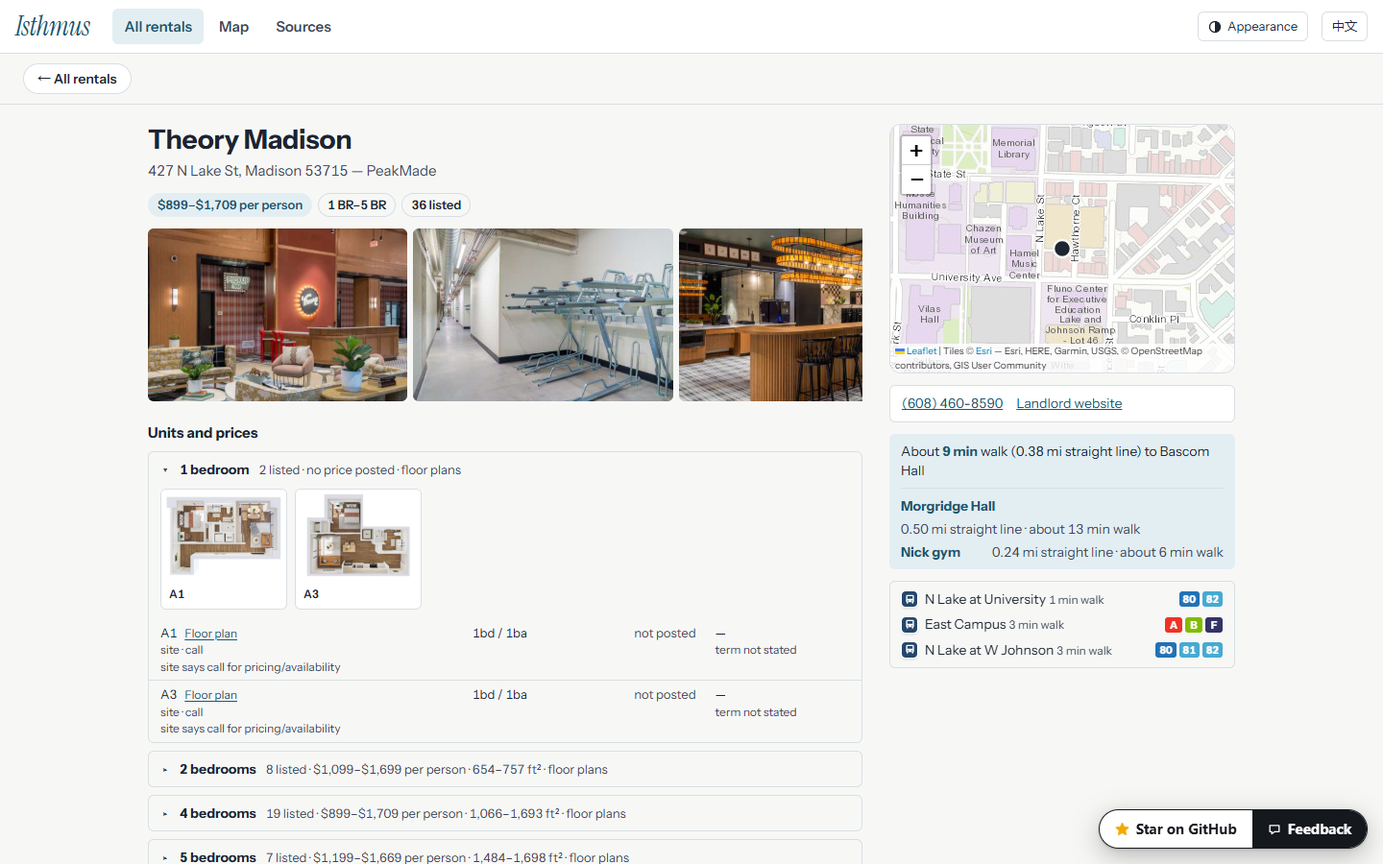
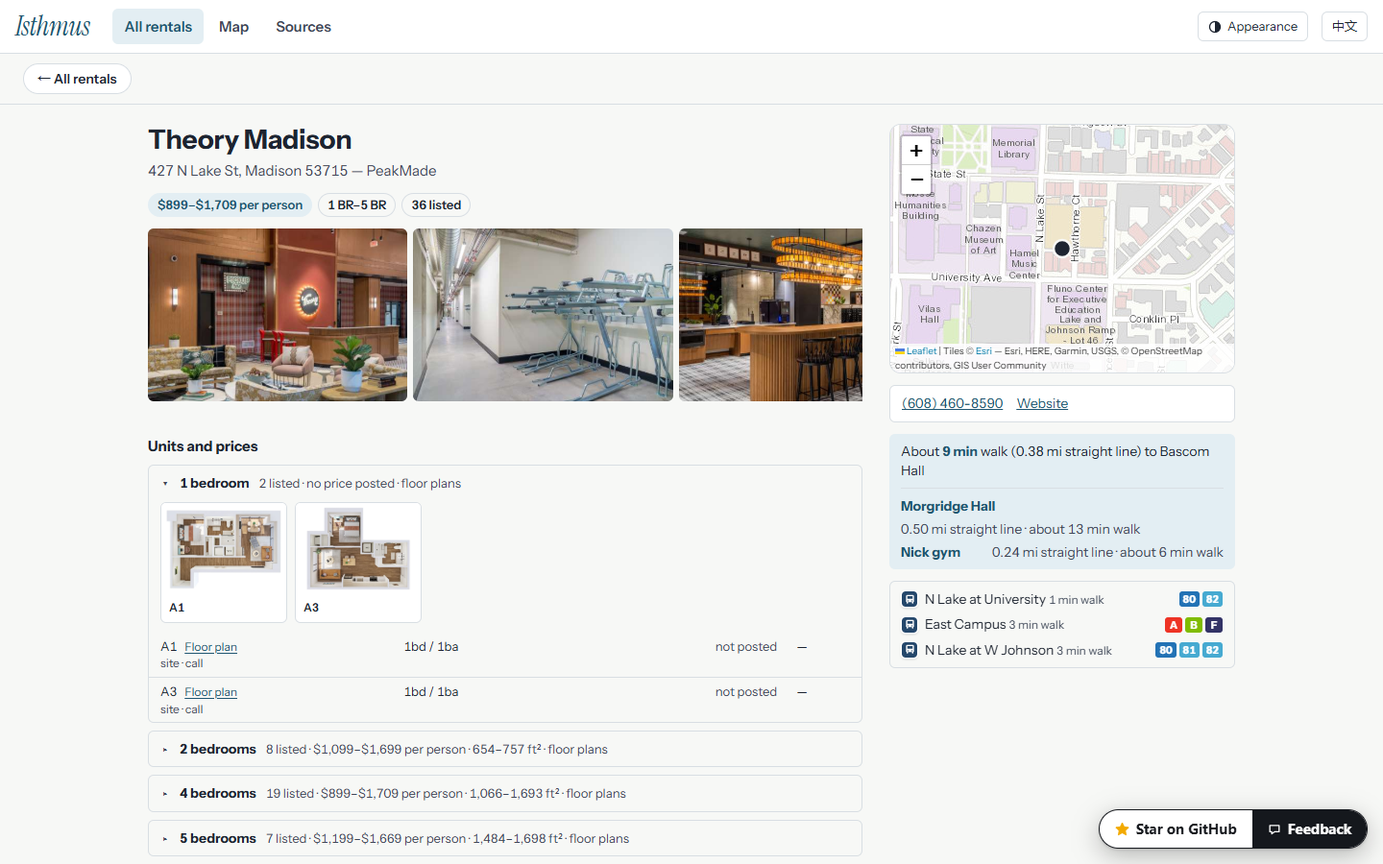
Update data 2026-10-08T01:33:05

diff --git a/app.js b/app.js
@@ -274,7 +274,6 @@
       chip: v => v <= todayISO() ? (lang === 'zh' ? '现在就能入住' : 'Move in now') : (lang === 'zh' ? `${dateLabel(v)} 起可入住` : `Move in from ${dateLabel(v)}`) },
     choice: { g: 'u', zh: '可选户型最多', en: 'Most units to choose from', val: r => r._n, dir: -1,
       chip: v => lang === 'zh' ? `${v} 个户型可选` : `${v} to choose from` },
-    complete: { g: 'u', zh: '缺失信息最少', en: 'Fewest missing details', val: r => r._gapsN },
   };
   const SORT_GROUPS = [['d', '距离', 'Distance'], ['p', '价格', 'Price'], ['u', '房源', 'Rentals']];
   function fillSort() {
@@ -400,7 +399,7 @@
     if (p._minBed != null) {
       const tip = (p._minBedDiv ? (zh ? '整套租金 ÷ 卧室数' : 'Whole-unit rent ÷ bedrooms') : (zh ? '每人价格' : 'Per-person price'))
         + (p._minBedUnv ? (zh ? '；未核实是否整套价' : '; not confirmed as a whole-unit price') : '');
-      return `<div class="price" title="${esc(tip)}">${p._minBedDiv ? '≈' : ''}${money(p._minBed)}${p._minBedUnv ? '?' : ''}<small>${zh ? '每人起' : 'per person, from'}</small></div>`;
+      return `<div class="price" title="${esc(tip)}">${p._minBedDiv ? '≈' : ''}${money(p._minBed)}<small>${zh ? '每人起' : 'per person, from'}</small></div>`;
     }
     if (p._minRent != null) return `<div class="price">${money(p._minRent)}<small>${zh ? '每月起' : 'per month, from'}</small></div>`;
     return `<div class="price none">${F().no_price}</div>`;
@@ -418,7 +417,7 @@
   const subHTML = p => (p.name && p.address ? `<span>${esc(p.address)}</span>` : '')
     + `<span>${p.landlord ? esc(p.landlord) + ' · ' : ''}<span class="nw">${distLabel(p._d)}</span></span>`
     + placeDistLine(p);
-  const tagsHTML = p => `${sortChip(p)}${bedsSummary(p._beds) ? `<span class="tag">${esc(bedsSummary(p._beds))}</span>` : ''}${p._2728 ? '<span class="tag t2728">2027–28</span>' : ''}${p._stale ? `<span class="tag gap">${lang === 'zh' ? '可能过期' : 'May be outdated'}</span>` : ''}${p._unv ? `<span class="tag gap">${lang === 'zh' ? '计价未核实' : 'Price basis unconfirmed'}</span>` : ''}`;
+  const tagsHTML = p => `${sortChip(p)}${bedsSummary(p._beds) ? `<span class="tag">${esc(bedsSummary(p._beds))}</span>` : ''}${p._2728 ? '<span class="tag t2728">2027–28</span>' : ''}${p._leased ? `<span class="tag">${lang === 'zh' ? '已租满' : 'Fully leased'}</span>` : ''}`;
   const emptyText = () => searchErr ? esc(apiErrText(searchErr)) : lang === 'zh' ? '没有符合条件的物业。放宽价格或距离，或点“重置”。' : 'Nothing matches. Widen the price or distance, or press Reset.';
   const moreText = () => lang === 'zh' ? `再显示 ${Math.min(60, total - current.length)} 个（共 ${total} 个）` : `Show ${Math.min(60, total - current.length)} more (of ${total})`;
 
@@ -542,14 +541,12 @@
     context: ['plan note', '户型说明'], ladder: ['building prices', '同楼价格阶梯'], same: ['same as sibling', '同楼同价'],
     range: ['$800–1,500 rule', '按 800–1500 区间'], 'range-out': ['unclear', '不清楚'],
   };
-  function bvTag(bv) {
-    if (!bv) return '';
+  function bvTitle(bv) {
     const zh = lang === 'zh';
-    const tip = (bv[1] ? `“${bv[1]}”` : '') + (bv[2] ? `\n${bv[2]}` : '') || (zh ? '没有找到房东说明价格是整套还是每人' : 'No statement found on whether this price is for the whole unit or per person');
-    const inner = esc(BV[bv[0]][zh ? 1 : 0]);
-    return bv[2] ? ` <a class="bv ${bv[0]}" href="${esc(bv[2])}" target="_blank" rel="noopener" title="${esc(tip)}">${inner}</a>`
-      : ` <span class="bv ${bv[0]}" title="${esc(tip)}">${inner}</span>`;
+    return BV[bv[0]][zh ? 1 : 0] + (bv[1] ? `: “${bv[1]}”` : '');
   }
+  const LEASED = /\b(rented|leased|no availability)\b/i;
+
 
   const STATUS_ZH = {
     available: '可租', listed: '在租', rented: '已租', limited: '余量有限', 'limited availability': '余量有限',
@@ -572,7 +569,7 @@
   const TERM_ZH = { 'past date': '日期已过', later: '更晚', 'now / 2026-27': '现在 / 2026–27', '2025-26 (old)': '2025–26（旧）' };
   function termLabel(t) {
     if (!t) return lang === 'zh' ? '租期未说明' : 'term not stated';
-    return lang === 'zh' ? TERM_ZH[t] || t : t;
+    return (lang === 'zh' ? TERM_ZH[t] || t : t).replace(/(\d{4})-(\d{2,4})/g, '$1–$2');
   }
   // Term adds nothing when the move-in date already shows the same year
   const termRedundant = x => x.term && x.avail && (x.avail === 'now' ? x.term.startsWith('now') : x.term.startsWith(x.avail.slice(0, 4)));
@@ -649,6 +646,16 @@
     document.body.classList.add('m-drawer');
     dr.querySelector('.close').onclick = closeDrawer;
   }
+  const SRC_ZH = { 'Landlord AppFolio listings': '房东的 AppFolio 房源页', 'Building website': '楼盘官网', 'UW Off-Campus Housing (offcampushousing.wisc.edu)': 'UW 校外租房列表 (offcampushousing.wisc.edu)' };
+  function srcList(links) {
+    const by = new Map();
+    links.forEach(([l, u]) => { if (!by.has(l)) by.set(l, []); by.get(l).push(u); });
+    return [...by].map(([l, us]) => {
+      const name = lang === 'zh' ? SRC_ZH[l] || l : l;
+      return us.length === 1 ? `<li><a href="${esc(us[0])}" target="_blank" rel="noopener">${esc(name)}</a></li>`
+        : `<li>${esc(name)}: ${us.map((u, i) => `<a href="${esc(u)}" target="_blank" rel="noopener">${i + 1}</a>`).join(' ')}</li>`;
+    }).join('');
+  }
   // Pieces of a property's detail, shared by the map's side panel and the full-width page
   function detailParts(r) {
     const p = r.p;
@@ -671,19 +678,21 @@
       const unv = x.bv && ['none', 'range-out'].includes(x.bv[0]);
       const basisLbl = x.shared ? (zh ? '合住每人价（两人一间）' : 'per person, shared room')
         : x.basis === 'bed' ? (zh ? '每人价' : 'per person') : (x.beds > 1 ? (unv ? (zh ? '整套价？' : 'whole unit?') : (zh ? '整套价' : 'whole unit')) : '');
-      const rent = x.rent ? money(x.rent) + (x.rent_max && x.rent_max !== x.rent ? '–' + money(x.rent_max) : '') + (basisLbl ? `<div class="basis ${x.basis}">${basisLbl}${x.shared ? '' : bvTag(x.bv)}</div>` : '') : `<span class="nostate">${zh ? '未公开' : 'not posted'}</span>`;
-      const per = x.per_bed && (x.pb_div || (x.shared && x.per_bed !== x.rent)) ? `<div class="muted${unv ? ' unv' : ''}">≈ ${money(x.per_bed)}${zh ? '/人' : '/person'}${x.pb_div ? ` (÷${x.beds})` : ''}${unv ? (zh ? ' 未核实' : ' unconfirmed') : ''}</div>` : '';
-      const flags = [...(x.flags || []), ...((x.notes || []).filter(n => !/banner/i.test(n) && /call for|blocked|not stated|per room|per-bed|Shared|lease year/i.test(n)))];
-      return `<tr class="${x.flags ? 'flagged' : ''}${x.shared ? ' shared' : ''}">
-        <td class="u-what">${esc(what)}${x.fpimg ? `<button type="button" class="fp-link" data-img="${esc(x.fpimg)}" data-cap="${esc(fpCap(x))}">${zh ? '户型图' : 'Floor plan'}</button>` : ''}<div class="muted src">${esc(PROV[x.src === 'uw_offcampus' ? 'uw' : 'official'][zh ? 1 : 0])}${x.status ? ' · ' + esc(statusLabel(x.status)) : ''}</div>${flags.length ? `<div class="muted fl">${flags.map(f => esc(zhNote(f))).join('<br>')}</div>` : ''}</td>
+      // Why a price counts as per person or whole unit: a tooltip on the label, not a tag of its own
+      const rent = x.rent ? money(x.rent) + (x.rent_max && x.rent_max !== x.rent ? '–' + money(x.rent_max) : '') + (basisLbl ? `<div class="basis ${x.basis}"${x.shared || !x.bv ? '' : ` title="${esc(bvTitle(x.bv))}"`}>${basisLbl}</div>` : '') : `<span class="nostate">${zh ? '未公开' : 'not posted'}</span>`;
+      const per = x.per_bed && (x.pb_div || (x.shared && x.per_bed !== x.rent)) ? `<div class="muted">≈ ${money(x.per_bed)}${zh ? '/人' : '/person'}${x.pb_div ? ` (÷${x.beds})` : ''}</div>` : '';
+      const term = x.term && x.term !== 'past date' && !termRedundant(x) ? `<div class="muted">${esc(termLabel(x.term))}</div>` : '';
+      return `<tr class="${x.shared ? 'shared' : ''}${LEASED.test(x.status || '') ? ' leased' : ''}">
+        <td class="u-what">${esc(what)}${x.fpimg ? `<button type="button" class="fp-link" data-img="${esc(x.fpimg)}" data-cap="${esc(fpCap(x))}">${zh ? '户型图' : 'Floor plan'}</button>` : ''}<div class="muted src">${esc(PROV[x.src === 'uw_offcampus' ? 'uw' : 'official'][zh ? 1 : 0])}${x.status ? ' · ' + esc(statusLabel(x.status)) : ''}</div></td>
         <td class="u-size">${bb}${x.sqft ? `<div class="muted">${x.sqft.toLocaleString()} ft²</div>` : ''}</td>
         <td class="r u-rent">${rent}${per}</td>
-        <td class="u-when">${esc(moveIn(x.avail))}${termRedundant(x) ? '' : `<div class="muted">${esc(termLabel(x.term))}</div>`}</td>
+        <td class="u-when">${esc(moveIn(x.avail))}${term}</td>
       </tr>`;
     };
     // Group by bedroom count (shared rooms separately)
     const groups = new Map();
-    ls.slice().sort((a, b) => (a.beds ?? 99) - (b.beds ?? 99) || (a.shared ? 1 : 0) - (b.shared ? 1 : 0) || (a.rent || 1e9) - (b.rent || 1e9))
+    ls.slice().sort((a, b) => (a.beds ?? 99) - (b.beds ?? 99) || (a.shared ? 1 : 0) - (b.shared ? 1 : 0)
+      || LEASED.test(a.status || '') - LEASED.test(b.status || '') || (a.rent || 1e9) - (b.rent || 1e9))
       .forEach(x => { const k = `${x.shared ? 'S' : ''}${x.beds ?? '?'}`; if (!groups.has(k)) groups.set(k, []); groups.get(k).push(x); });
     const range = (vals, f = money) => { const v = vals.filter(n => n != null); if (!v.length) return ''; const lo = Math.min(...v), hi = Math.max(...v); return lo === hi ? f(lo) : `${f(lo)}–${f(hi)}`; };
     const openAll = ls.length <= 8;
@@ -720,8 +729,8 @@
       ['ac', zh ? '空调' : 'Air conditioning', p.ac],
       ['furnished', zh ? '家具' : 'Furnished', p.furnished],
       ['deposit', zh ? '押金' : 'Deposit', p.deposit ? money(p.deposit) : null],
-    ].map(([k, l, v]) => `<dt>${l}</dt><dd>${factVal(p, k, v)}</dd>`).join('');
-    const utilTxt = p.utilities_text ? `<dt>${zh ? '原文' : 'As written'}</dt><dd>${esc(p.utilities_text.slice(0, 220))}</dd>` : '';
+    ].map(([k, l, v]) => `<dt>${l}</dt><dd>${factVal(p, k, v)}${k === 'utilities' && p.utilities_text
+      ? `<div class="muted">${zh ? '原文：' : 'As written: '}${esc(p.utilities_text.slice(0, 220))}</div>` : ''}</dd>`).join('');
     const fees = p.fees ? `<dt>${zh ? '费用' : 'Fees'}</dt><dd>${p.fees.map(esc).join('<br>')}${provTag(p, 'fees')}</dd>` : '';
     // Notes about the listing, plain text near the end; missing values just read "Not stated" where they belong
     const notes = [...(p.conflicts || []), ...(p.stale || [])].map(u => esc(zhNote(u)));
@@ -732,7 +741,7 @@
     const contact = [
       p.phone ? `<a href="tel:${esc(p.phone.replace(/[^\d+]/g, ''))}">${esc(p.phone)}</a>` : '',
       p.email ? `<span>${esc(p.email)}</span>` : '',
-      p.landlord_site ? `<a href="${esc(p.landlord_site)}" target="_blank" rel="noopener">${zh ? '房东官网' : 'Landlord website'}</a>` : '',
+      p.landlord_site ? `<a href="${esc(p.landlord_site)}" target="_blank" rel="noopener">${zh ? '官网' : 'Website'}</a>` : '',
       p.contact_hidden && uwLink ? `<a href="${esc(uwLink[1])}" target="_blank" rel="noopener">${zh ? '通过 UW 租房列表联系房东' : 'Contact through the UW listing'}</a>` : '',
     ].filter(Boolean).join('');
     return {
@@ -746,10 +755,10 @@
       notes: notes.length ? `<h4>${zh ? '说明' : 'Notes'}</h4><ul class="notes">${notes.map(n => `<li>${n}</li>`).join('')}</ul>` : '',
       units: `<h4>${zh ? '户型与价格' : 'Units and prices'}</h4>${units}
         ${hiddenShared ? `<p class="hidden-note">${zh ? `另有 ${hiddenShared} 个合住价格（两人一间）未显示，关掉"不算合住"可查看。` : `${hiddenShared} shared-room prices (two people per bedroom) are hidden; turn off "Leave out shared rooms" to see them.`}</p>` : ''}`,
-      terms: `<h4>${zh ? '条件' : 'Terms'}</h4><dl class="facts">${facts}${utilTxt}${fees}</dl>`,
+      terms: `<h4>${zh ? '条件' : 'Terms'}</h4><dl class="facts">${facts}${fees}</dl>`,
       amen: p.amenities ? `<h4>${zh ? '设施（原文）' : 'Amenities'}</h4><p class="desc">${p.amenities.filter(a => !/^[\d.,$\s]+$/.test(a)).map(esc).join(', ')}</p>` : '',
       desc: p.description ? `<h4>${zh ? '描述（原文）' : 'Description'}</h4><p class="desc">${esc(p.description.slice(0, 1500))}</p>` : '',
-      srcs: `<h4>${zh ? '数据来源' : 'Where this came from'}</h4><ol class="srcs">${(p.links || []).map(([l, u]) => `<li><a href="${esc(u)}" target="_blank" rel="noopener">${esc(l)}</a></li>`).join('')}</ol>`,
+      srcs: `<h4>${zh ? '数据来源' : 'Where this came from'}</h4><ul class="srcs">${srcList(p.links || [])}</ul>`,
     };
   }
   async function select(id, pan = true, zoom = 0) {
@@ -825,7 +834,8 @@
   }
   function renderPage(r) {
     const p = r.p, o = detailParts(r), g = $('gpage'), top = g.scrollTop;
-    g.innerHTML = pageBar() + `<div class="gp"><div class="gp-main"><h2>${esc(o.title)}</h2>${o.addr}${o.overview}${o.photos}${o.units}${o.terms}${o.notes}${o.amen}${o.desc}${o.srcs}</div>
+    g.innerHTML = pageBar() + `<div class="gp"><div class="gp-head"><h2>${esc(o.title)}</h2>${o.addr}${o.overview}${o.photos}</div>
+      <div class="gp-body">${o.units}${o.terms}${o.notes}${o.amen}${o.desc}${o.srcs}</div>
       <aside class="gp-side"><div class="gp-map" id="pmap" role="img" aria-label="${esc(lang === 'zh' ? `${o.title} 的位置` : `Where ${o.title} is`)}"></div>${o.contact}${o.walk}${o.bus}</aside></div>`;
     $('gback').onclick = leavePage;
     g.scrollTop = top;
@@ -1263,7 +1273,6 @@
   // ---------- sources view
   function renderSources() {
     const zh = lang === 'zh';
-    const llRows = M.landlords.map(([n, c]) => `<tr><td>${esc(n)}</td><td class="r">${c}</td></tr>`).join('');
     $('sources').innerHTML = zh ? `
       <h2>数据从哪来</h2>
       <p>数据于 <b>${esc(META.built)}</b> 抓取，范围是 Bascom Hall 周围 ${META.radius_mi} 英里（直线）。房东官网优先；UW 校外租房列表（offcampushousing.wisc.edu）补充没有官网数据的房东。同一单元两边都有时，以官网为准，UW 那条隐藏。</p>
@@ -1275,8 +1284,7 @@
       <p>The small mark next to each value says where it came from: <span class="prov official">site</span> a structured field on the landlord website; <span class="prov uw">UW list</span> the UW off-campus listing service; <span class="prov inferred">inferred</span> read from the listing's description text. Values no source gives show as <span class="nostate">Not stated</span>.</p>
       <p>Walking times assume 1.25× the straight-line distance at 3 mph. Treat them as estimates.</p>
       ${TR ? `<p>Bus stops and routes come from Madison Metro's GTFS feed (downloaded ${esc(TR.built)}). Your places are saved only in this browser; address searches are sent to OpenStreetMap's Nominatim service.</p>` : ''}`;
-    $('sources').innerHTML += `<h2>${zh ? '各房东物业数' : 'Properties by landlord'}</h2><table><tbody>${llRows}</tbody></table>
-      ${DS.remote ? `<h2>${zh ? '数据怎么提供、记录什么' : 'How the data is served, and what is logged'}</h2><p>${zh
+    $('sources').innerHTML += `${DS.remote ? `<h2>${zh ? '数据怎么提供、记录什么' : 'How the data is served, and what is logged'}</h2><p>${zh
         ? '为防止数据被批量复制，这个页面不会把全部数据一次发给浏览器，而是按需向服务器要：列表一次一页，物业详情点开才取，每个访客每天能看的详情数有上限。每次请求会匿名记录（看了哪个物业、用了哪些筛选和搜索词），用来改进页面和发现批量抓取。不记录姓名，IP 地址只保存不可逆的哈希值，不使用 cookie；「我常去的地方」的坐标不会被记录。'
         : 'To stop bulk copying, this page never sends the whole dataset to the browser. It asks the server for what you look at: one page of the list at a time, and a property only when you open it, with a daily limit on how many properties one visitor can open. Each request is logged anonymously (which property, which filters and search words) to improve the page and spot scraping. No names are stored, IP addresses only as a one-way hash, and no cookies are set; the coordinates of your saved places are never logged.'}</p>` : ''}`;
   }

diff --git a/style.css b/style.css
@@ -251,11 +251,8 @@ input[type=range] { width: 100%; accent-color: var(--lake); }
 .facts dt { color: var(--ink-2); }
 .facts dd { margin: 0; }
 .nostate { color: var(--ink-2); }
-.prov { font-size: 11px; font-weight: 600; padding: 0 5px; border-radius: 3px; margin-left: 6px; vertical-align: 1px; white-space: nowrap; }
-.prov.official { background: var(--lake-wash); color: var(--lake-ink); }
-.prov.uw { border: 1px solid var(--badger); color: var(--badger); }
-.prov.inferred { border: 1px dashed var(--ink-2); color: var(--ink-2); }
-.prov.absent { border: 1px dashed var(--warn); color: var(--warn); }
+.prov { font-size: 11px; font-weight: 500; margin-left: 6px; color: var(--ink-2); white-space: nowrap; }
+.prov::before { content: "· "; }
 .units { width: 100%; border-collapse: collapse; font-size: 13px; }
 .units .u-when { white-space: nowrap; }
 .units .u-rent, .units .u-size { white-space: nowrap; }
@@ -264,15 +261,9 @@ input[type=range] { width: 100%; accent-color: var(--lake); }
 .units td.r, .units th.r { text-align: right; }
 .units .muted { color: var(--ink-2); font-size: 12px; }
 .basis { font-size: 11px; font-weight: 600; }
-.bv { font-size: 10.5px; font-weight: 600; padding: 0 4px; border-radius: 3px; white-space: nowrap; text-decoration: none; }
-.bv.text, .bv.policy, .bv.manual { background: var(--lake-wash); color: var(--lake-ink); }
-.bv.uw { border: 1px solid var(--badger); color: var(--badger); }
-.bv.price, .bv.rule { border: 1px dashed var(--ink-2); color: var(--ink-2); }
-.bv.none { background: var(--warn-wash); color: var(--warn); }
-.units .muted.unv { color: var(--warn); }
 .basis.bed { color: var(--lake-ink); }
 .basis.unit { color: var(--ink-2); }
-.units tr.flagged td:first-child { box-shadow: inset 3px 0 0 var(--warn); padding-left: 6px; }
+.units tr.leased td { color: var(--ink-2); }
 .issues { background: var(--warn-wash); border-radius: var(--radius-s); padding: 10px 12px; font-size: 14px; }
 .issues p { margin: 0 0 4px; }
 .notes { margin: 0; padding-left: 18px; font-size: 14px; color: var(--ink-2); }
@@ -332,10 +323,10 @@ textarea.draft { width: 100%; min-height: 260px; font: 13px/1.5 "Instrument Sans
   body.m-list .mapwrap { display: none; }
   body.m-drawer .mapwrap { display: block; }
   .results { overflow: visible; flex: none; padding-bottom: 96px; }
-  .legend { left: 10px; bottom: 96px; }
+  .legend { left: 10px; bottom: 136px; }  /* clear of the list switch and the feedback pill */
   .drawer { position: fixed; inset: 0; width: auto; border-radius: 0; z-index: 1300; }
   .viewswitch {
-    display: block; position: fixed; left: 50%; bottom: 40px; transform: translateX(-50%); z-index: 1200;
+    display: block; position: fixed; left: 12px; bottom: 40px; z-index: 1200;  /* left: the feedback pill sits bottom right */
     background: var(--ink); color: var(--paper); border: 0; border-radius: 999px; padding: 11px 20px;
     font-weight: 600; font-size: 14px; box-shadow: var(--shadow); white-space: nowrap;
   }
@@ -361,8 +352,6 @@ textarea.draft { width: 100%; min-height: 260px; font: 13px/1.5 "Instrument Sans
   .ugroup .units .u-when .muted { white-space: nowrap; }
 }
 @media (prefers-reduced-motion: reduce) { * { scroll-behavior: auto !important; } }
-.bv.context, .bv.ladder, .bv.same, .bv.range { border: 1px dashed var(--ink-2); color: var(--ink-2); }
-.bv.range-out { background: var(--warn-wash); color: var(--warn); }
 
 /* Bus stops */
 .bus-stop {
@@ -505,13 +494,16 @@ textarea.draft { width: 100%; min-height: 260px; font: 13px/1.5 "Instrument Sans
 body.page-open .grail, body.page-open .gwrap { display: none; }
 .gp-bar { position: sticky; top: 0; z-index: 500; background: var(--paper); padding: 10px 24px; border-bottom: 1px solid var(--line); }
 .back { border: 1px solid var(--line); background: var(--card); border-radius: 999px; padding: 5px 14px; font-weight: 600; font-size: 14px; }
-.gp { display: grid; grid-template-columns: minmax(0, 1fr) 360px; gap: 28px; max-width: 1180px; margin: 0 auto; padding: 20px 24px 64px; align-items: start; }
-.gp-main h2 { font-size: 28px; line-height: 1.15; margin: 0 0 6px; font-weight: 700; letter-spacing: -.01em; }
-.gp-main h4 { font-size: 15px; margin: 22px 0 8px; }
+.gp { display: grid; grid-template-columns: minmax(0, 1fr) 360px; grid-template-areas: "head side" "body side"; gap: 0 28px;
+  max-width: 1180px; margin: 0 auto; padding: 20px 24px 64px; align-items: start; }
+.gp-head, .gp-main { grid-area: head; }
+.gp-body { grid-area: body; }
+.gp h2 { font-size: 28px; line-height: 1.15; margin: 0 0 6px; font-weight: 700; letter-spacing: -.01em; }
+.gp h4 { font-size: 15px; margin: 22px 0 8px; }
 .gp .addr { color: var(--ink-2); margin: 0 0 12px; }
 .gp .photos { margin: 0 0 14px; padding: 0; }
 .gp .photos img { height: 180px; }
-.gp-side { position: sticky; top: 64px; display: grid; gap: 12px; }
+.gp-side { grid-area: side; position: sticky; top: 64px; display: grid; gap: 12px; }
 .gp-map { height: 260px; border-radius: var(--radius-l); border: 1px solid var(--line); overflow: hidden; background: var(--paper); }
 .gp-side .contact, .gp-side .walk, .gp-side .bus { margin: 0; }
 .gp-side .contact { background: var(--card); border: 1px solid var(--line); border-radius: var(--radius-s); padding: 8px 12px; }
@@ -524,8 +516,8 @@ body:not(.v-map) .viewswitch { display: none; }
   .grid { grid-template-columns: repeat(auto-fill, minmax(280px, 1fr)); gap: 14px; }
   .gpage { overflow: visible; flex: none; }
   .gp-bar { padding: 8px 12px; }
-  .gp { grid-template-columns: minmax(0, 1fr); gap: 16px; padding: 14px 12px 56px; }
-  .gp-main h2 { font-size: 24px; }
+  .gp { grid-template-columns: minmax(0, 1fr); grid-template-areas: "head" "side" "body"; gap: 16px; padding: 14px 12px 56px; }
+  .gp h2 { font-size: 24px; }
   .gp-side { position: static; }
   .gp-map { height: 220px; }
 }

diff --git a/index.html b/index.html
@@ -10,7 +10,7 @@
 <link rel="preconnect" href="https://fonts.gstatic.com" crossorigin>
 <link href="https://fonts.googleapis.com/css2?family=Instrument+Sans:wght@400;500;600;700&family=Instrument+Serif:ital@0;1&display=swap" rel="stylesheet">
 <link rel="stylesheet" href="https://cdnjs.cloudflare.com/ajax/libs/leaflet/1.9.4/leaflet.min.css">
-<link rel="stylesheet" href="style.css?v=cc1ec5a5">
+<link rel="stylesheet" href="style.css?v=d1042330">
 <script src="theme.js?v=f138724b"></script>
 </head>
 <body>
@@ -47,30 +47,6 @@
           <button data-b="0" data-i18n="studio">Studio</button><button data-b="1">1</button><button data-b="2">2</button><button data-b="3">3</button><button data-b="4">4</button><button data-b="5">5+</button>
         </div>
       </div>
-      <div class="field places">
-        <div class="lbl-row">
-          <span class="lbl" data-i18n="places">My places</span>
-          <button class="linkish" id="place-add" type="button" aria-expanded="false" aria-controls="place-form" data-i18n="place_add">+ Add a place</button>
-        </div>
-        <div class="place-chips" id="place-chips"></div>
-        <div class="place-form" id="place-form" hidden>
-          <div class="pf-row">
-            <input id="place-q" type="search" autocomplete="off" data-i18n-ph="place_q_ph" placeholder="Building, business or street address">
-            <button class="btn small" id="place-search" type="button" data-i18n="place_search">Search</button>
-          </div>
-          <div class="pf-row">
-            <button class="linkish" id="place-map" type="button" data-i18n="place_map">Click a spot on the map</button>
-            <button class="linkish" id="place-gps" type="button" data-i18n="place_gps">Use my current location</button>
-          </div>
-          <ol class="place-results" id="place-results"></ol>
-          <p class="place-msg" id="place-msg" hidden></p>
-          <div class="pf-row" id="place-name-row" hidden>
-            <input id="place-name" type="text" maxlength="40" data-i18n-ph="place_name_ph" placeholder="Name it, e.g. Lab or Gym">
-            <button class="btn small" id="place-save" type="button" data-i18n="place_save">Save</button>
-            <button class="linkish" id="place-cancel" type="button" data-i18n="place_cancel">Cancel</button>
-          </div>
-        </div>
-      </div>
       <button class="ftoggle" id="ftoggle" type="button" aria-expanded="false" aria-controls="fbody"><span><span data-i18n="ftoggle">Price, distance and more</span><span id="ftoggle-n" class="more-n"></span></span></button>
       <div class="fbody" id="fbody">
       <div class="field">
@@ -95,6 +71,30 @@
         <div class="dual">
           <div class="dual-track"><div class="dual-fill" id="dist-fill"></div></div>
           <input type="range" id="dist" min="0.25" max="2" step="0.05" value="2" aria-label="Distance">
+        </div>
+      </div>
+      <div class="field places">
+        <div class="lbl-row">
+          <span class="lbl" data-i18n="places">My places</span>
+          <button class="linkish" id="place-add" type="button" aria-expanded="false" aria-controls="place-form" data-i18n="place_add">+ Add a place</button>
+        </div>
+        <div class="place-chips" id="place-chips"></div>
+        <div class="place-form" id="place-form" hidden>
+          <div class="pf-row">
+            <input id="place-q" type="search" autocomplete="off" data-i18n-ph="place_q_ph" placeholder="Building, business or street address">
+            <button class="btn small" id="place-search" type="button" data-i18n="place_search">Search</button>
+          </div>
+          <div class="pf-row">
+            <button class="linkish" id="place-map" type="button" data-i18n="place_map">Click a spot on the map</button>
+            <button class="linkish" id="place-gps" type="button" data-i18n="place_gps">Use my current location</button>
+          </div>
+          <ol class="place-results" id="place-results"></ol>
+          <p class="place-msg" id="place-msg" hidden></p>
+          <div class="pf-row" id="place-name-row" hidden>
+            <input id="place-name" type="text" maxlength="40" data-i18n-ph="place_name_ph" placeholder="Name it, e.g. Lab or Gym">
+            <button class="btn small" id="place-save" type="button" data-i18n="place_save">Save</button>
+            <button class="linkish" id="place-cancel" type="button" data-i18n="place_cancel">Cancel</button>
+          </div>
         </div>
       </div>
       <div class="field two">
@@ -166,9 +166,9 @@
 <script src="https://cdnjs.cloudflare.com/ajax/libs/leaflet/1.9.4/leaflet.min.js"></script>
 <script src="data/transit.js?v=7d94bb8b"></script>
 <script src="data/config.js?v=36a0155d"></script>
-<script src="engine.js?v=fce5e301"></script>
+<script src="engine.js?v=4973667f"></script>
 <script src="guard-client.js?v=9af92d3c"></script>
-<script src="app.js?v=90aed069"></script>
+<script src="app.js?v=72fe3fe9"></script>
 <script src="feedback.js?v=f6ff8df4" data-site="rentals" data-star="WEBGRS/madison-rentals" data-float-bottom-narrow="94" data-narrow-max="860" defer></script>
 </body>
 </html>

diff --git a/engine.js b/engine.js
@@ -16,6 +16,7 @@
   }
   var BOUNDS = { bed: [500, 3000], unit: [800, 12000] };
   var STALE = /last updated|already passed|update date unknown|site not updated/i;
+  var LEASED = /\b(rented|leased|no availability)\b/i;
   var CHECKS = ['priced', 'heat', 'allutil', 'net', 'cats', 'dogs', 'inunit', 'parking', 'furn', 'ac'];
   var SORTS = ['dist', 'bus', 'places', 'price', 'price_desc', 'ppsf', 'size', 'movein', 'choice', 'complete'];
   var LIMITS = { page: 60, places: 10, peek: 60, find: 8 };
@@ -116,8 +117,11 @@
     var c = s.checks;
     if ((c.heat && !p._heat) || (c.net && !p._net) || (c.allutil && !p._allutil) || (c.cats && !p._cats) || (c.dogs && !p._dogs) ||
       (c.inunit && !p._inunit) || (c.parking && !p._parking) || (c.furn && !p._furn) || (c.ac && !p._ac)) return null;
-    var ls = p.listings.filter(function (x) { return matches(x, s); });
-    if (!ls.length) return null;
+    var all = p.listings.filter(function (x) { return matches(x, s); });
+    if (!all.length) return null;
+    // Units already leased stay in the detail but do not set prices or move-in while others are open
+    var open = all.filter(function (x) { return !LEASED.test(x.status || ''); });
+    var ls = open.length ? open : all;
     var nums = function (f) { return ls.map(f).filter(function (v) { return v != null; }); };
     var pb = nums(function (x) { return x.per_bed; });
     var minBed = pb.length ? Math.min.apply(null, pb) : null;
@@ -125,15 +129,15 @@
     var sq = ls.map(function (x) { return x.sqft; }).filter(function (v) { return v >= 150; });
     var psf = ls.filter(function (x) { return x.sqft >= 150 && unitRent(x) != null; }).map(function (x) { return unitRent(x) / x.sqft; });
     // Earliest move-in; 'now' and dates already past count as today
-    var moves = ls.map(function (x) {
+    var moves = (open.length ? open : []).map(function (x) {
       if (x.avail === 'now') return today;
       return /^\d{4}-\d{2}-\d{2}$/.test(x.avail || '') ? (x.avail < today ? today : x.avail) : null;
     }).filter(Boolean).sort();
     var beds = [];
-    ls.forEach(function (x) { if (x.beds != null && beds.indexOf(x.beds) < 0) beds.push(x.beds); });
+    all.forEach(function (x) { if (x.beds != null && beds.indexOf(x.beds) < 0) beds.push(x.beds); });
     return {
       id: p.id, name: p.name || null, address: p.address || null, landlord: p.landlord || null, lat: p.lat, lng: p.lng,
-      _d: r3(d), _n: ls.length,
+      _d: r3(d), _n: all.length, _leased: !open.length,
       _minBed: minBed,
       _minBedDiv: minBed != null && ls.every(function (x) { return x.per_bed !== minBed || !!x.pb_div; }),
       _minBedUnv: minBed != null && ls.some(function (x) { return x.per_bed === minBed && unconfirmed(x); }),
@@ -145,7 +149,7 @@
       _busD: r3(p._busD),
       _placesAvg: s.places.length ? r3(s.places.reduce(function (t, pl) { return t + miles([p.lat, p.lng], pl); }, 0) / s.places.length) : null,
       _beds: beds.sort(function (a, b) { return a - b; }),
-      _2728: ls.some(function (x) { return x.term === '2027-28'; }),
+      _2728: open.some(function (x) { return x.term === '2027-28'; }),
       _unv: ls.some(unconfirmed),
       _stale: p._stale,
       _gapsN: p._gapsN,
